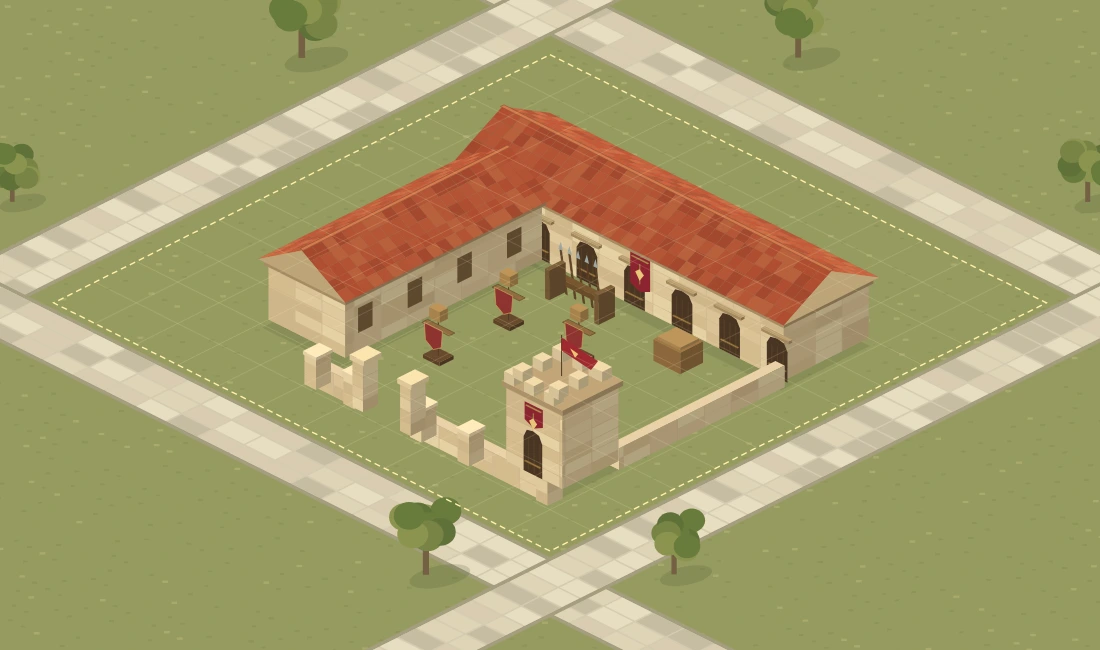
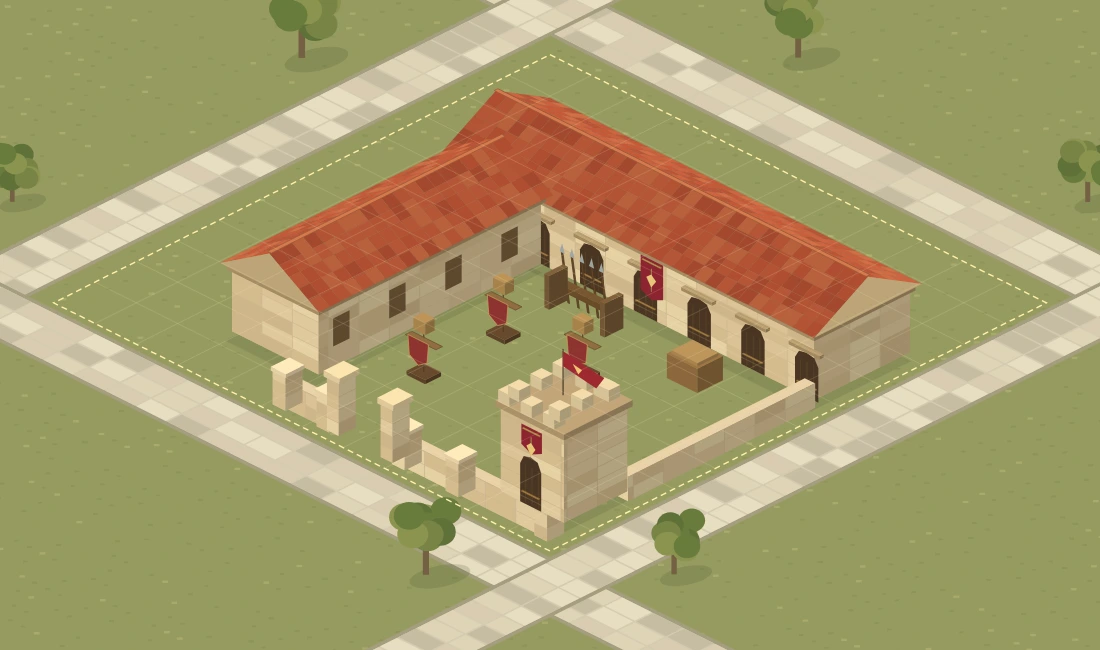
Enlarge prototype barracks 13 percent to fill its plot

Changed region(s): [[0.1855, 0.1231, 0.8345, 0.8308]]

diff --git a/payitaht/public/ikariam-study.html b/payitaht/public/ikariam-study.html
@@ -11,7 +11,7 @@
 <div class="notes"><article><span>01</span><b>Tek kamera</b><p>Yol, karo, duvar ve çatı aynı koordinatlardan çizilir. Bina sonradan esnetilmez.</p></article><article><span>02</span><b>Ortak arazi</b><p>Binanın zemin plakası yok. Zemini değiştir; açık avlunun da birlikte değiştiğini gör.</p></article><article><span>03</span><b>Okunur silüet</b><p>L koğuşu, askerî sancak, nöbet kulesi ve talim hedefleri kışlanın işlevini gösterir.</p></article></div>
 <footer>Bu, yeni kamera ve yerleşim için geometrik bir taslak; son boyalı oyun çizimi değildir. Ana oyun sahnesi ve kayıtlar bu prototipten etkilenmez. <a href="https://gameforge.com/en-GB/play/ikariam" target="_blank" rel="noopener">İncelenen Ikariam görselleri ↗</a></footer></main>
 <script type="module">
-import {scene} from './prototypes/ikariam-study-v1/renderer.mjs';
+import {scene} from './prototypes/ikariam-study-v1/renderer.mjs?v=2';
 const canvas=document.querySelector('canvas'),ctx=canvas.getContext('2d');
 const state={building:true,guides:false,grass:true,detail:true};
 function render(){const r=canvas.getBoundingClientRect(),dpr=Math.min(devicePixelRatio||1,2);canvas.width=Math.round(r.width*dpr);canvas.height=Math.round(r.height*dpr);ctx.setTransform(dpr,0,0,dpr,0,0);scene(ctx,{...state,width:r.width,height:r.height});for(const [id,value] of [['empty',!state.building],['built',state.building],['guides',state.guides],['earth',!state.grass],['wide',!state.detail]])document.getElementById(id).setAttribute('aria-pressed',String(value));document.getElementById('caption').textContent=state.building?'Kışlanın avlusunda şehrin kendi '+(state.grass?'çayır':'toprak')+' zemini görünüyor.':'Aynı arsa ve aynı zemin; yalnız mimari kaldırıldı.'}

diff --git a/payitaht/docs/IKARIAM-STUDY-PROTOTYPE.md b/payitaht/docs/IKARIAM-STUDY-PROTOTYPE.md
@@ -62,3 +62,9 @@ Ana oyun, sürüm numarası, servis çalışanı, HUD, ekonomi, kayıtlar ve ars
 Bu kontroller geometri ve katman davranışını ölçer; estetik kabul anlamına gelmez. Mobil ölçekte native görüntü ayrıca incelendi. Canlı tarayıcı etkileşim kontrolü bu teslimde yapılmadı. Yönetilen ortamda control-browser becerisi bulunmadığı için önizleme sunucusu veya alternatif otomasyon başlatılmadı; genel layout-qa da yeniden çalıştırılmadı. Ana oyunun daha önce kaydedilmiş düzen sonuçları bu prototipe ait sayılmadı.
 
 `pnpm check` geçti: tip kontrolü, 360 test, ESLint ve CSS kontrolleri. V2 ölçütleri ve iki JavaScript sözdizimi kontrolü geçti. Genel layout-qa yukarıda belirtilen nedenle yeniden çalıştırılmadı. Yayın GitHub Pages Deploy işinin başarılı sonucuyla doğrulanır.
+
+## 17 Ekim — arsa doluluğunu artırma
+
+Kullanıcı “biraz daha genişlet arsayı iyice kaplasın yeterli” dedi. Prototipin kışlası bütün dünya koordinatlarında (x,y,z) aynı 1.13 katsayısıyla büyütüldü ve arsanın merkezine alındı. Böylece mimarinin ekrandaki alanı yaklaşık %28 arttı; çatı ve duvar oranları korundu. Kamera/arsa ölçüsü aynı. Temas gölgeleri aynı dönüşümü kullanıyor; zemin yüzeyi eklenmedi. Görünen mimari zarfı arsanın ters izdüşümünde 0.193 ile 11.807 arasında; sınırlar 0 ile 12. Önceki görüntü `mockups/ikariam-study/barracks-before.webp` dosyasında tutuldu.
+
+Native kontrol sekiz durumda yeniden geçti: arsa dışında değişen piksel 0, her durumda 36 açık avlu örneği ortak araziyle aynı. Telefon görüntüsü ve karo kılavuzlu görüntü incelendi. `pnpm check` (360 test, tip, ESLint ve CSS) ve V2 ölçütleri yeniden geçti. Tarayıcı etkileşim kontrolü ve genel layout-qa önceki bölümde belirtilen ortam kısıtı nedeniyle tekrarlanmadı.

diff --git a/payitaht/AGENTS.md b/payitaht/AGENTS.md
@@ -1,3 +1,5 @@
+**17 Ekim prototip doluluğu:** Kullanıcı kışlayı biraz daha genişletip arsayı daha çok kaplamasını istedi. `/ikariam-study.html` kışlası dünya koordinatlarında bütün mimari ve temas gölgeleriyle tek oranda %13 büyütüldü. 12×12 arsa ve kamera değişmedi; açık avlu ortak zemini gösterir. Ana oyun aktarımı bu isteğin kapsamında değildir.
+
 **16 Ekim Ikariam incelemesi / prototip:** Kullanıcı 0.111.3 sonucunu reddetti. master-v11 ve projektif esnetme görsel olarak onaylı değildir; aşağıdaki teknik doğrulama kayıtları kullanıcı onayı sayılmaz. Yeni istek önce Ikariam şehir/arsa/bina çizimlerini incelemek, ardından prototip yapmaktır. `docs/IKARIAM-STUDY-PROTOTYPE.md` ve `/ikariam-study.html`: tek kışla, ortak 2:1 kamera, aynı koordinatlardan çizilen yol/arsa/mimari, açık avluda ortak arazi. Bu geometrik taslaktır; boyalı nihai bina veya ana oyun düzeltmesi sayılmaz. Ana oyun, HUD, kayıt ve mevcut slotlar değiştirilmez.
 
 **16 Ekim kullanıcı ekranı — 0.111.3 / SW134:** `docs/BARRACKS-PARCEL-0.111.3.md`. Kışla master-v11 dış kaidesiz/zeminsizdir. Arsa içine uniform küçültme bu bina için bırakıldı; kaynak trapezin dört kenarı mevcut karonun dört kenarına projektif UV ile eşlenir. Saydam alanlara zemin eklenmez. Bu, önceki kışla uniform yerleşim kuralının önündedir. Diğer dört kesit ve kalan binalar bu işte yenilenmez.
